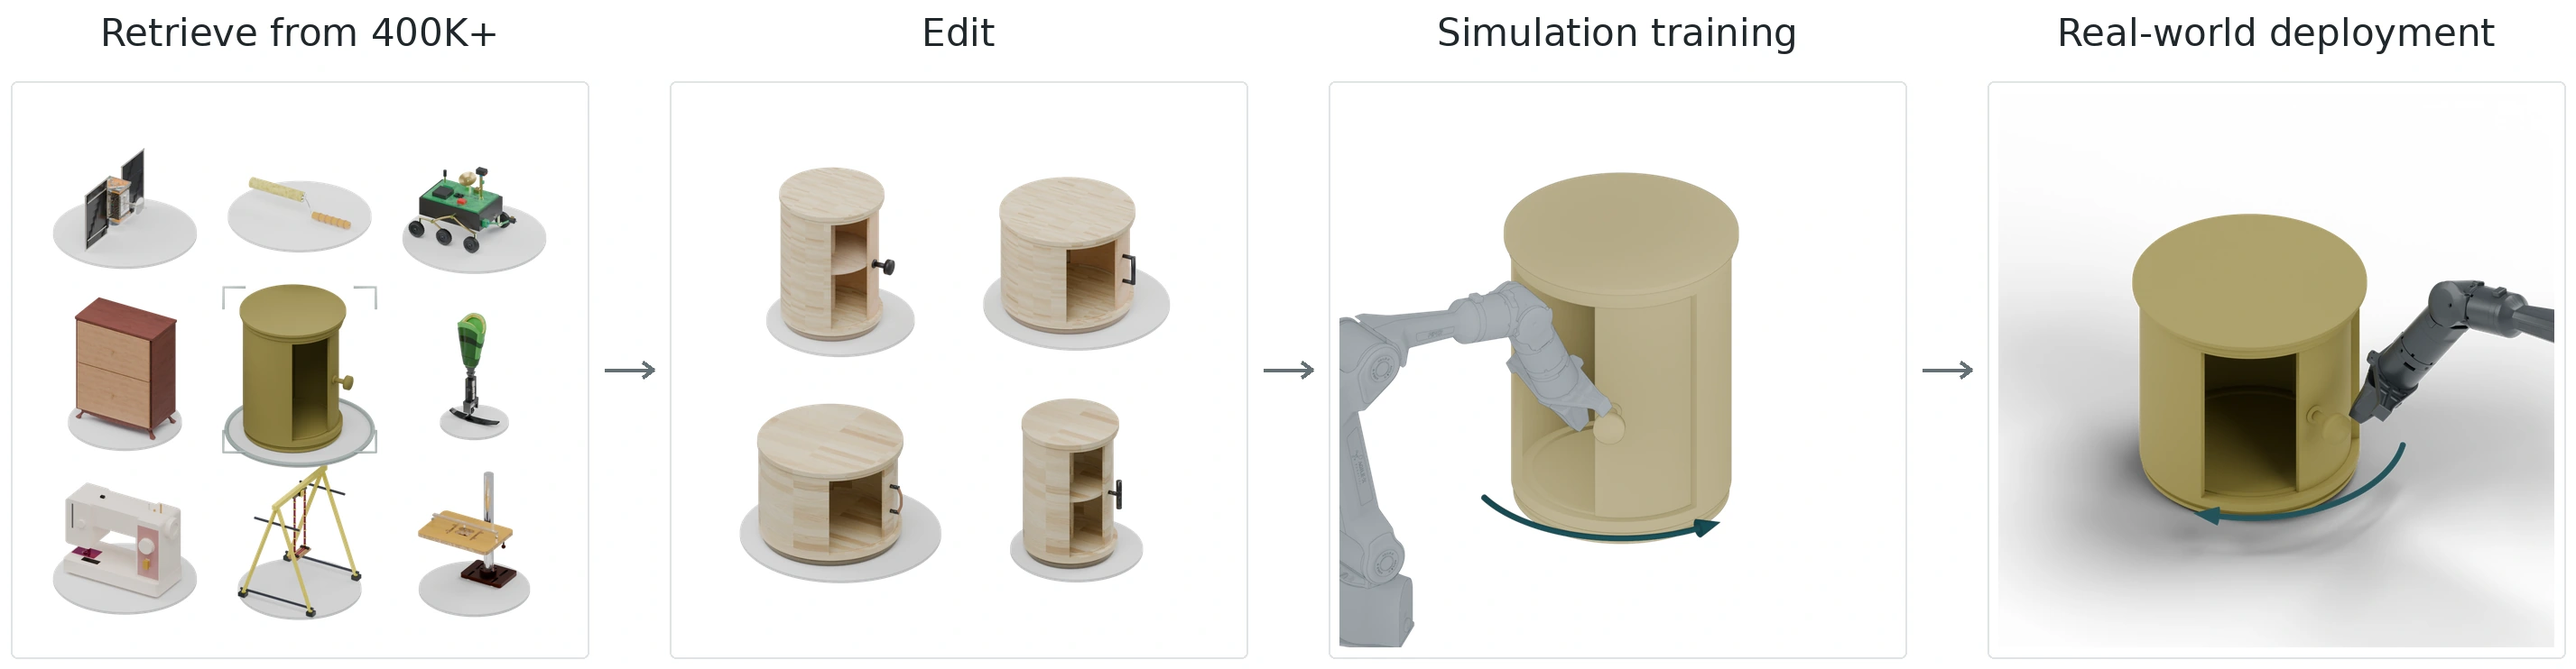
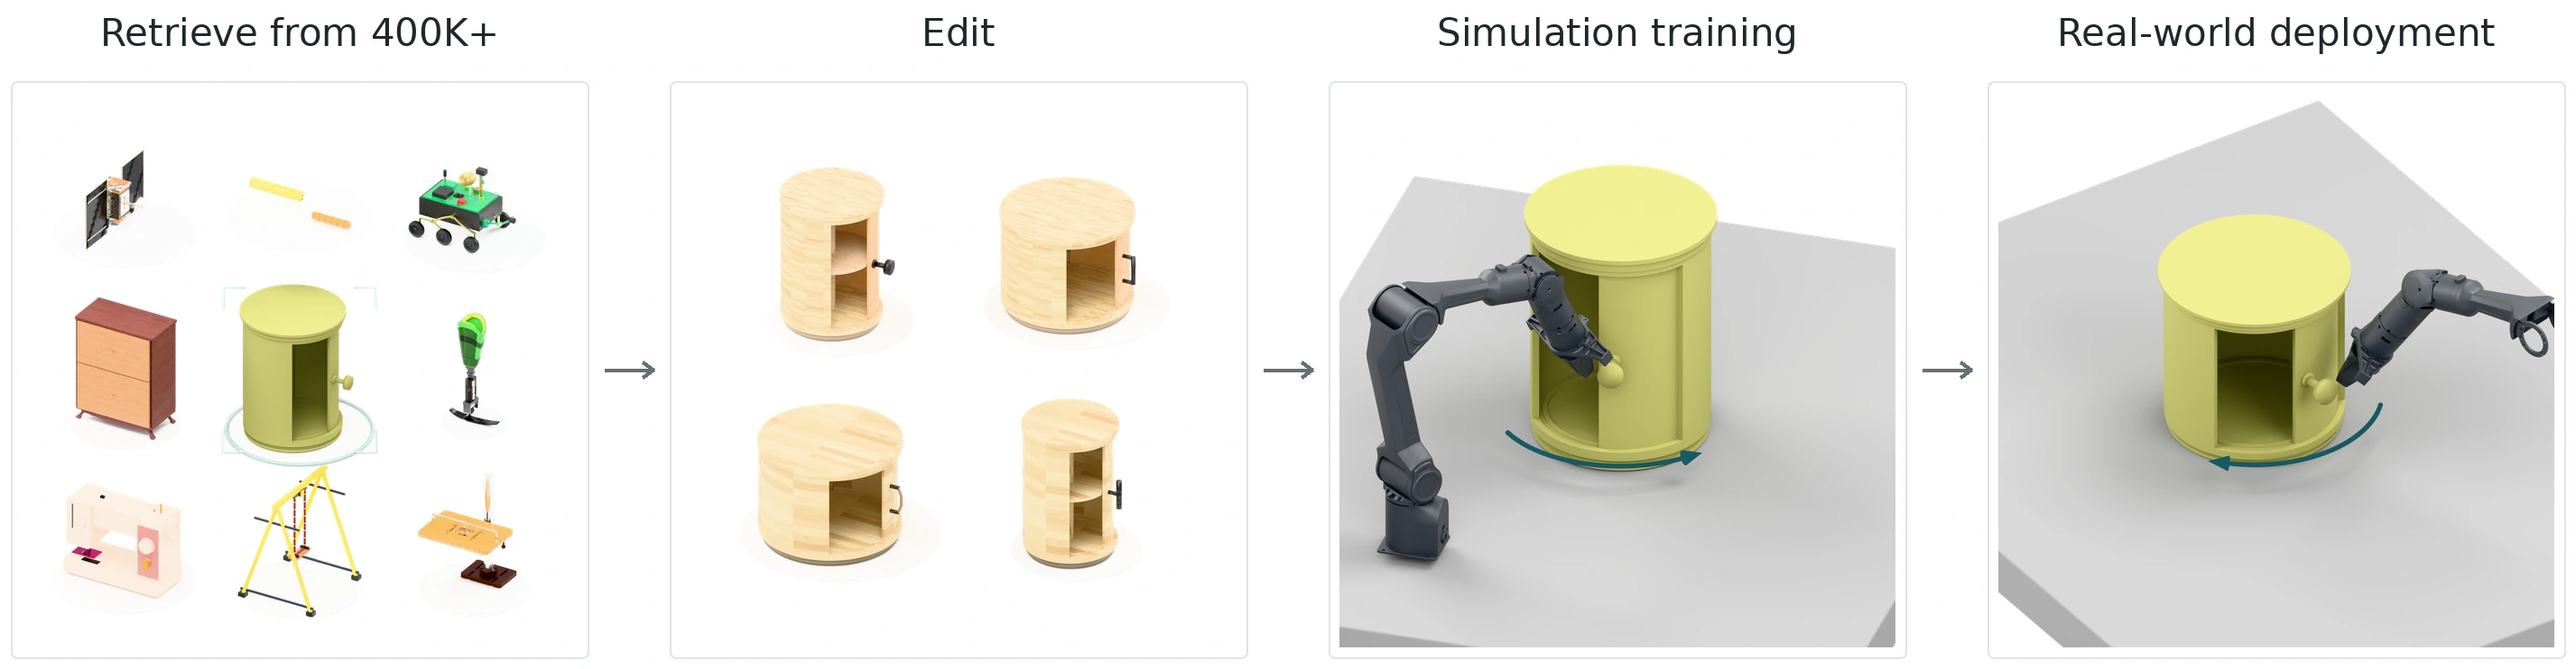
Render tabletop workflow with Isaac robot colors and corrected cabinet appearance

diff --git a/index.html b/index.html
@@ -81,7 +81,7 @@
 <section class="section results-section" id="validation"><div class="wrap"><div class="section-heading"><div><h2>Physical validation</h2></div><p>Kinematic validity, simulator import, and stable rollouts.</p></div><div class="validation-cards"><article><span class="mono">KINEMATIC VALIDITY</span><strong>100.0<span>%</span></strong><p>Full-release assets passing the kinematic validity check.</p></article><article><span class="mono">SIMULATOR IMPORT</span><strong>100.0<span>%</span></strong><p>Core-200 assets imported across the evaluated simulators.</p></article><article><span class="mono">STABLE ROLLOUT</span><strong>99.5<span>%</span></strong><p>One-second stable rollouts on Core-200.</p></article></div><div class="benchmark" id="benchmark"><div class="benchmark-label"><h3>Results</h3><p>Dataset scale, asset quality, and articulation estimation. Select a column to sort.</p></div><div class="benchmark-toolbar"><div class="pill-tabs" role="tablist" aria-label="Result group"><button role="tab" aria-selected="true" data-result="scale">Dataset scale</button><button role="tab" aria-selected="false" data-result="validity">Asset quality</button><button role="tab" aria-selected="false" data-result="transfer">Articulation estimation</button></div><label id="split-control" hidden>Evaluation split <select id="split-select"><option value="ood">Category OOD</option><option value="in">In-domain</option></select></label></div><div class="table-scroll" tabindex="0" role="region" aria-label="Paper results table"><table id="results-table"></table></div><p class="table-note" id="results-note"></p></div><details class="qualitative"><summary>Qualitative results <span>＋</span></summary><img src="./media/articulation.webp" loading="lazy" alt="Qualitative comparison of PM-only, PM plus Articraft, PM plus RFW-A-400K and ground truth"/></details></div></section>
 <section class="section wrap robotics-section" id="sim2real" aria-labelledby="robotics-title">
  <div class="section-heading"><h2 id="robotics-title">Robotic manipulation</h2></div>
- <button class="robotics-flow" data-lightbox="media/robotics-flow.webp?v=e2de1f234e0e" data-lightbox-mobile="media/robotics-flow-mobile.webp?v=18c26860fc70" data-caption="Retrieve → optionally edit → train in simulation → deploy zero-shot. Rendered close-ups illustrate opening and closing; real-world trials are shown below." aria-label="Enlarge the robotic manipulation workflow"><picture><source media="(max-width: 760px)" srcset="./media/robotics-flow-mobile.webp?v=18c26860fc70" width="1394" height="1612"/><img src="./media/robotics-flow.webp?v=e2de1f234e0e" width="2854" height="742" loading="lazy" alt="Retrieve the half-open yellow cabinet from a diverse 400K+ pool; four edited cabinets use the same native light wood materials, handles and interiors as the simulation videos. A technical simulation view shows a Piper arm opening the taller cabinet; a shaded deployment schematic shows the arm closing a shorter yellow target. All four panels are rendered illustrations."/></picture><span aria-hidden="true">Enlarge ↗</span></button>
+ <button class="robotics-flow" data-lightbox="media/robotics-flow.webp?v=d545d93897cd" data-lightbox-mobile="media/robotics-flow-mobile.webp?v=f736f27e448e" data-caption="Retrieve → optionally edit → train in simulation → deploy zero-shot. Rendered close-ups illustrate opening and closing; real-world trials are shown below." aria-label="Enlarge the robotic manipulation workflow"><picture><source media="(max-width: 760px)" srcset="./media/robotics-flow-mobile.webp?v=f736f27e448e" width="1394" height="1612"/><img src="./media/robotics-flow.webp?v=d545d93897cd" width="2854" height="742" loading="lazy" alt="Retrieve the half-open yellow cabinet from a diverse 400K+ pool; four edited cabinets use the same native light wood materials, handles and interiors as the simulation videos. A dark Piper arm opens the taller yellow cabinet on a gray tabletop; the deployment schematic shows a dark arm closing a shorter yellow target on a tabletop. All four panels are rendered illustrations."/></picture><span aria-hidden="true">Enlarge ↗</span></button>
  <div id="robotics-picker" class="robotics-picker" role="group" aria-label="Choose a manipulation task"></div>
  <div class="robotics-playback"><h3 id="robotics-selection" aria-live="polite">Cabinet</h3><div><button id="robotics-play" aria-controls="robotics-grid">Play videos</button><button id="robotics-replay" aria-controls="robotics-grid">Replay</button></div></div>
  <p id="task-description" class="robotics-description">Open the cabinet door with the left arm, then close it with the right arm.</p>

diff --git a/scripts/render_robotics_workflow.py b/scripts/render_robotics_workflow.py
@@ -3,8 +3,8 @@
 Blender 4.2 (Collada importer required). Example:
 CUDA_VISIBLE_DEVICES=0 blender -b -t 8 --python scripts/render_robotics_workflow.py -- retrieve
 All source assets are read-only; intermediate images/scenes/audits go to /tmp.
-The edit panel illustrates controlled transforms of one source asset, not a new
-experiment. The deployment panel is a schematic, not a photograph of a trial.
+The edit panel shows native experiment assets in an illustrative arrangement.
+The deployment panel is a schematic, not a photograph of a trial.
 """
 import argparse
 import hashlib
@@ -268,6 +268,19 @@ def cabinet(variant='crown_molding', q=.98):
         'textures': [{'path': str(p), 'sha256': hashlib.sha256(p.read_bytes()).hexdigest()}
                      for p in sorted(texture_paths)],
     })
+    if variant == 'crown_molding':
+        # Color-managed Blender reproduction of the delivered Isaac appearance:
+        # preserve the source USD on disk; compensate for different lighting and
+        # display pipelines only in this illustration's imported coating shader.
+        for mat in {m for ob in meshes for m in ob.data.materials}:
+            bs = mat.node_tree.nodes.get('Principled BSDF')
+            if bs and bs.inputs['Base Color'].default_value[0] > .1:
+                bs.inputs['Base Color'].default_value = (.27, .265, .085, 1)
+        audit['yellow_display_calibration'] = {
+            'source_linear_rgb': [.23, .19, .045],
+            'blender_linear_rgb': [.27, .265, .085],
+            'reference': 'delivered sim_crown_molding.mp4; appearance match, not a new material',
+        }
     bpy.context.view_layer.update()
     return root, meshes, {'curved_door': door}
 
@@ -385,7 +398,7 @@ def robot_scene(deploy=False):
     knob_origin = source_xml.find("link[@name='curved_door']/visual[@name='knob_cap']/origin")
     handle_height = vec(knob_origin.get('xyz'))[2]
     arm_offset = .66 * handle_height * (height_scale - 1)
-    graphite = material('Deployment hardware finish', (.025, .031, .035), .3, .37)
+    hardware = material('Native Isaac Piper finish', (.018, .022, .028), .0, .5)
     for side, arm in p['arms'].items():
         joints = dict(zip(['joint' + str(i) for i in range(1, 7)], arm['joint_pos_rad']))
         joints.update(dict(zip(['gripper', 'gripper_joint1', 'gripper_joint2'], arm['gripper_joint_pos_m'])))
@@ -406,9 +419,9 @@ def robot_scene(deploy=False):
         for ob in meshes:
             # Only the working arm is needed in the close-up. The second arm's
             # recorded pose is still audited, but its idle gripper is hidden.
+            ob.data.materials.clear()
+            ob.data.materials.append(hardware)
             ob.hide_render = side != active_side or (deploy and ob.get('link_name') in ('base_link', 'link1', 'link2'))
-            if deploy:
-                ob.data.materials.clear();ob.data.materials.append(graphite)
     root, meshes, _ = cabinet(q=p['joints']['round_cabinet_crown_molding']['body_to_door'])
     raw = p['mechanism_roots']['round_cabinet_crown_molding']
     root.location, root.scale = raw[:3], (.66, .66, .66 * height_scale)
@@ -425,55 +438,32 @@ def robot_scene(deploy=False):
                     matrix[2][j] /= height_scale
                 ob.matrix_world = matrix
         bpy.context.view_layer.update()
-    # Contact shadows ground the close-up, without a large table or legs that
-    # compete with the action. The deployment height and active forearm offset
-    # are presentation changes, not a reconstruction of real experiment poses.
-    bpy.ops.mesh.primitive_plane_add(size=200, location=(0, 0, .737))
-    floor = bpy.context.object;floor.name = 'Contact shadow plane'
-    floor.is_shadow_catcher = True;floor.data.materials.append(WHITE)
-    floor.hide_render = not deploy
+    # A finite, visible tabletop grounds the action. Its top is at the native
+    # simulation height; the framing/edge is schematic, not a measured real desk.
+    table_mat = material('Matte experiment tabletop', (.18, .18, .18), roughness=.85)
+    cube('Experiment tabletop', (.32, .02, .700), (1.36, 1.08, .08), table_mat, .004)
     motion_arrow(raw[:3], opening=not deploy)
     camera((-3.0, 2.0, 2.5) if deploy else (-3.0, -.9, 1.8),
-           target=(.30, .025, .90 if deploy else .945), scale=.70)
+           target=(.30, .025, .85 if deploy else .87), scale=.85)
+    audit['tabletop'] = {'center_m': [.32, .02, .70], 'size_m': [1.36, 1.08, .08],
+                        'top_m': .74, 'material': 'native simulation backdrop gray',
+                        'real_world_geometry': 'illustrative, not measured'}
     audit['illustration_only'] = True
-    audit['cabinet_finish'] = 'native video USD materials'
+    audit['cabinet_finish'] = 'native video USD materials with documented Blender display calibration'
     audit['simulation_grid'] = False
     audit['cabinet_height_scale'] = height_scale
     audit['active_arm_presentation_translation_m'] = [0, 0, arm_offset]
-    audit['presentation_style'] = 'physical deployment schematic' if deploy else 'technical viewport'
-    audit['robot_finish'] = 'graphite presentation finish' if deploy else 'original Collada materials'
+    audit['presentation_style'] = 'physical deployment schematic' if deploy else 'shaded simulation schematic'
+    audit['robot_finish'] = 'Isaac USD diffuse_color_constant (0.018, 0.022, 0.028)'
+    audit['robot_material_source'] = '/opt/isaacsim/piper_official_isaac_asset_20260827/isaac_usd/piper.usd'
+    audit['robot_diffuse_linear_rgb'] = [.018, .022, .028]
     audit['target_material_source'] = '/opt/isaacsim/isaac_route/assets/articulated/generated/round_cabinet_crown_molding_appearance.usda'
 
 
 
 {'retrieve': retrieval, 'edit': edits, 'train': lambda: robot_scene(False), 'deploy': lambda: robot_scene(True)}[args.panel]()
 scene = bpy.context.scene
-scene.render.engine = 'BLENDER_WORKBENCH' if args.panel == 'train' else 'CYCLES'
-if args.panel == 'train':
-    shading = scene.display.shading
-    shading.light = 'FLAT'
-    # Match the yellow asset identity in a lighting-independent CAD display.
-    for obj in scene.objects:
-        if obj.get('workflow_cabinet'):
-            for mat in obj.data.materials:
-                bs = mat.node_tree.nodes.get('Principled BSDF')
-                if bs and bs.inputs['Base Color'].default_value[0] > .1:
-                    mat.diffuse_color = (.56, .47, .19, 1)
-    for obj in scene.objects:
-        if obj.type == 'MESH' and obj.get('link_name', '').startswith(('link', 'base_', 'gripper', 'flange')):
-            for mat in obj.data.materials:
-                mat.diffuse_color = (.30, .34, .38, 1)
-    shading.color_type = 'MATERIAL'
-    shading.show_shadows = False
-    shading.show_cavity = True
-    shading.cavity_type = 'WORLD'
-    shading.cavity_ridge_factor = 1.2
-    shading.cavity_valley_factor = 1.4
-    shading.curvature_ridge_factor = 1.2
-    shading.curvature_valley_factor = 1.0
-    shading.show_object_outline = True
-    shading.object_outline_color = (.06, .08, .09)
-    scene.display.render_aa = '32'
+scene.render.engine = 'CYCLES'
 scene.cycles.samples = 24 if args.preview else 128
 scene.cycles.use_denoising = True
 prefs = bpy.context.preferences.addons['cycles'].preferences
@@ -484,8 +474,8 @@ for d in prefs.devices:
 scene.cycles.device = 'GPU'
 scene.world = bpy.data.worlds.new('Soft studio')
 scene.world.use_nodes = True
-scene.world.node_tree.nodes['Background'].inputs[0].default_value = (.82, .86, .90, 1)
-scene.world.node_tree.nodes['Background'].inputs[1].default_value = .65
+scene.world.node_tree.nodes['Background'].inputs[0].default_value = (1.0, 1.0, 1.0, 1)
+scene.world.node_tree.nodes['Background'].inputs[1].default_value = 1.0
 robot = args.panel in ('train', 'deploy')
 center = Vector((.1, .02, 1.0) if robot else (0, 0, 0))
 scale = .6 if robot else 1.5
@@ -500,11 +490,12 @@ scene.render.resolution_x = 720 if args.preview else 1280
 scene.render.resolution_y = scene.render.resolution_x
 scene.render.resolution_percentage = 100
 scene.render.film_transparent = True
-scene.view_settings.view_transform = 'AgX'
+scene.view_settings.view_transform = 'Khronos PBR Neutral'
+scene.view_settings.exposure = .5
 scene.render.image_settings.file_format = 'PNG'
 scene.render.image_settings.color_mode = 'RGBA'
 scene.render.filepath = str(OUT / (args.panel + '.png'))
-audit['render'] = {'blender': bpy.app.version_string, 'engine': scene.render.engine, 'samples': 32 if args.panel == 'train' else scene.cycles.samples, 'devices': ['OpenGL/EGL viewport'] if args.panel == 'train' else [d.name for d in prefs.devices if d.use]}
+audit['render'] = {'blender': bpy.app.version_string, 'engine': scene.render.engine, 'samples': scene.cycles.samples, 'view_transform': scene.view_settings.view_transform, 'exposure': scene.view_settings.exposure, 'devices': [d.name for d in prefs.devices if d.use]}
 (OUT / (args.panel + '.json')).write_text(json.dumps(audit, indent=2))
 bpy.ops.wm.save_as_mainfile(filepath=str(OUT / (args.panel + '.blend')))
 bpy.ops.render.render(write_still=True)

diff --git a/output/robotics-workflow/README.md b/output/robotics-workflow/README.md
@@ -15,24 +15,43 @@ are used inside the workflow.
    and `t_bar`, with their native light wood finishes, proportions, handles and
    interiors. The retrieved cabinet and these four assets are displayed at a
    door angle of 0.98 radians (about 56° of the native 102° travel).
-3. **Simulation training**: the original tall yellow cabinet in a flat-lit
-   Workbench viewport, with light-gray robot parts and component contours.
-   Frame 900 supplies the native left-Piper joint state and opening angle.
-   Cabinet scale is 0.66, matching the simulation. There is no ground grid.
-4. **Real-world deployment**: a shaded deployment schematic with a graphite
-   right Piper and a yellow target cabinet made 28% shorter at the user's request.
+3. **Simulation training**: a shaded Cycles view with the dark Piper finish used
+   in the simulation USD. Frame 900 supplies the native left-Piper joint state and
+   opening angle. Cabinet scale remains 0.66, matching the simulation. A finite
+   tabletop replaces the ungrounded flat-gray viewport. There is no ground grid.
+4. **Real-world deployment**: a shaded deployment schematic with a dark right
+   Piper and a yellow target cabinet made 28% shorter at the user's request.
    Radius and knob dimensions are preserved. The source frame-1800 forearm is
    translated down by the changed handle height (about 53 mm), maintaining contact.
    This is an illustration, not a recovered real-world pose or experimental image.
    Actual real trials remain in the video gallery immediately below it.
 
-Both robot panels use the same orthographic scale, so the height difference is
-visible. They illustrate the opening and closing phases of the same task, not
-separate definitions of the training and deployment tasks. The idle arm is hidden;
-proximal deployment-arm parts outside the focus area are hidden to avoid edge clutter.
-The physical cabinet materials remain those of the video USD; simulation display
-colors are adjusted only for the lighting-independent Workbench palette. Blender
-studio lighting is not calibrated for pixel-identical colors to Isaac footage.
+Both robot panels use the same orthographic scale and hardware color; differences
+come from cabinet height, view direction and the opening/closing phase. The idle
+arm is hidden; proximal deployment-arm parts outside the focus area are hidden.
+Both now include a matte tabletop with visible edges/contact shadows. Its native
+simulation dimensions are 1.36 × 1.08 × 0.08 m, centered at (0.32, 0.02, 0.70),
+with a top height of 0.74 m. Its gray finish follows the video's plain backdrop.
+The deployment table is schematic, not a measurement of the physical lab table.
+
+### Color reproduction
+
+The previous Workbench view overrode the robot with a light gray and flattened
+its appearance. This has been removed. The original Collada geometry is retained,
+but its white/gray material palette also differs from the experiment: inspection
+of the composed Piper USD shows all 16 shaders use `diffuse_color_constant`
+(0.018, 0.022, 0.028). Both panels use that dark finish in Cycles.
+
+Simply importing the cabinet USD did not reproduce Isaac's displayed yellow:
+the previous AgX/studio combination made it olive-brown. All four panels now use
+Khronos PBR Neutral, exposure +0.5 and neutral lighting. The yellow coating alone
+has an explicitly recorded Blender display calibration from linear RGB
+(0.23, 0.19, 0.045) to (0.27, 0.265, 0.085), judged against the delivered cabinet
+video. This is a rendering compensation; the source USD and videos are untouched.
+We do not claim pixel-identical cross-renderer colors. Wood texture bindings/UVs
+are unchanged. The five cabinet videos have two broad body appearances: one
+yellow coating and four light-wood variants, with differences in wood grain,
+handles, proportions and interiors; no extra video materials are invented.
 
 ## Native appearance sources
 
@@ -44,7 +63,7 @@ studio lighting is not calibrated for pixel-identical colors to Isaac footage.
 - Original context: `MATERIAL_UPDATE.md` in that same source directory describes
   the material repairs already applied before the video delivery.
 - Robot: `/opt/isaacsim/piper_official_isaac_asset_20260827/official_source/piper_with_gripper.urdf`;
-  original Collada geometry, with a viewport or graphite presentation finish.
+  original Collada geometry, with the dark diffuse color from the composed Isaac USD.
 - Recorded state: `/opt/isaacsim/end/real_sim_fixed_camera_20261014/round_cabinet/round_cabinet_fixed_camera.jsonl`.
 - Pool examples: existing exports in `public/models/dataset/`, whose origins are
   listed in `public/data/dataset.json`.
@@ -87,8 +106,7 @@ python scripts/compose_robotics_workflow.py
 python scripts/robotics_roles.py
 ```
 
-Panels are 1280 × 1280. Cycles uses OptiX, 128 samples and denoising; the simulation
-panel uses Workbench with 32-sample antialiasing. Temporary PNGs, scenes and logs
+Panels are 1280 × 1280. All four panels use Cycles with OptiX, 128 samples and denoising. Temporary PNGs, scenes and logs
 live in `/tmp/rfw-workflow`. Pillow adds only headings, borders and connecting
 arrows outside the rendered panels, using a sans-serif font.
 
